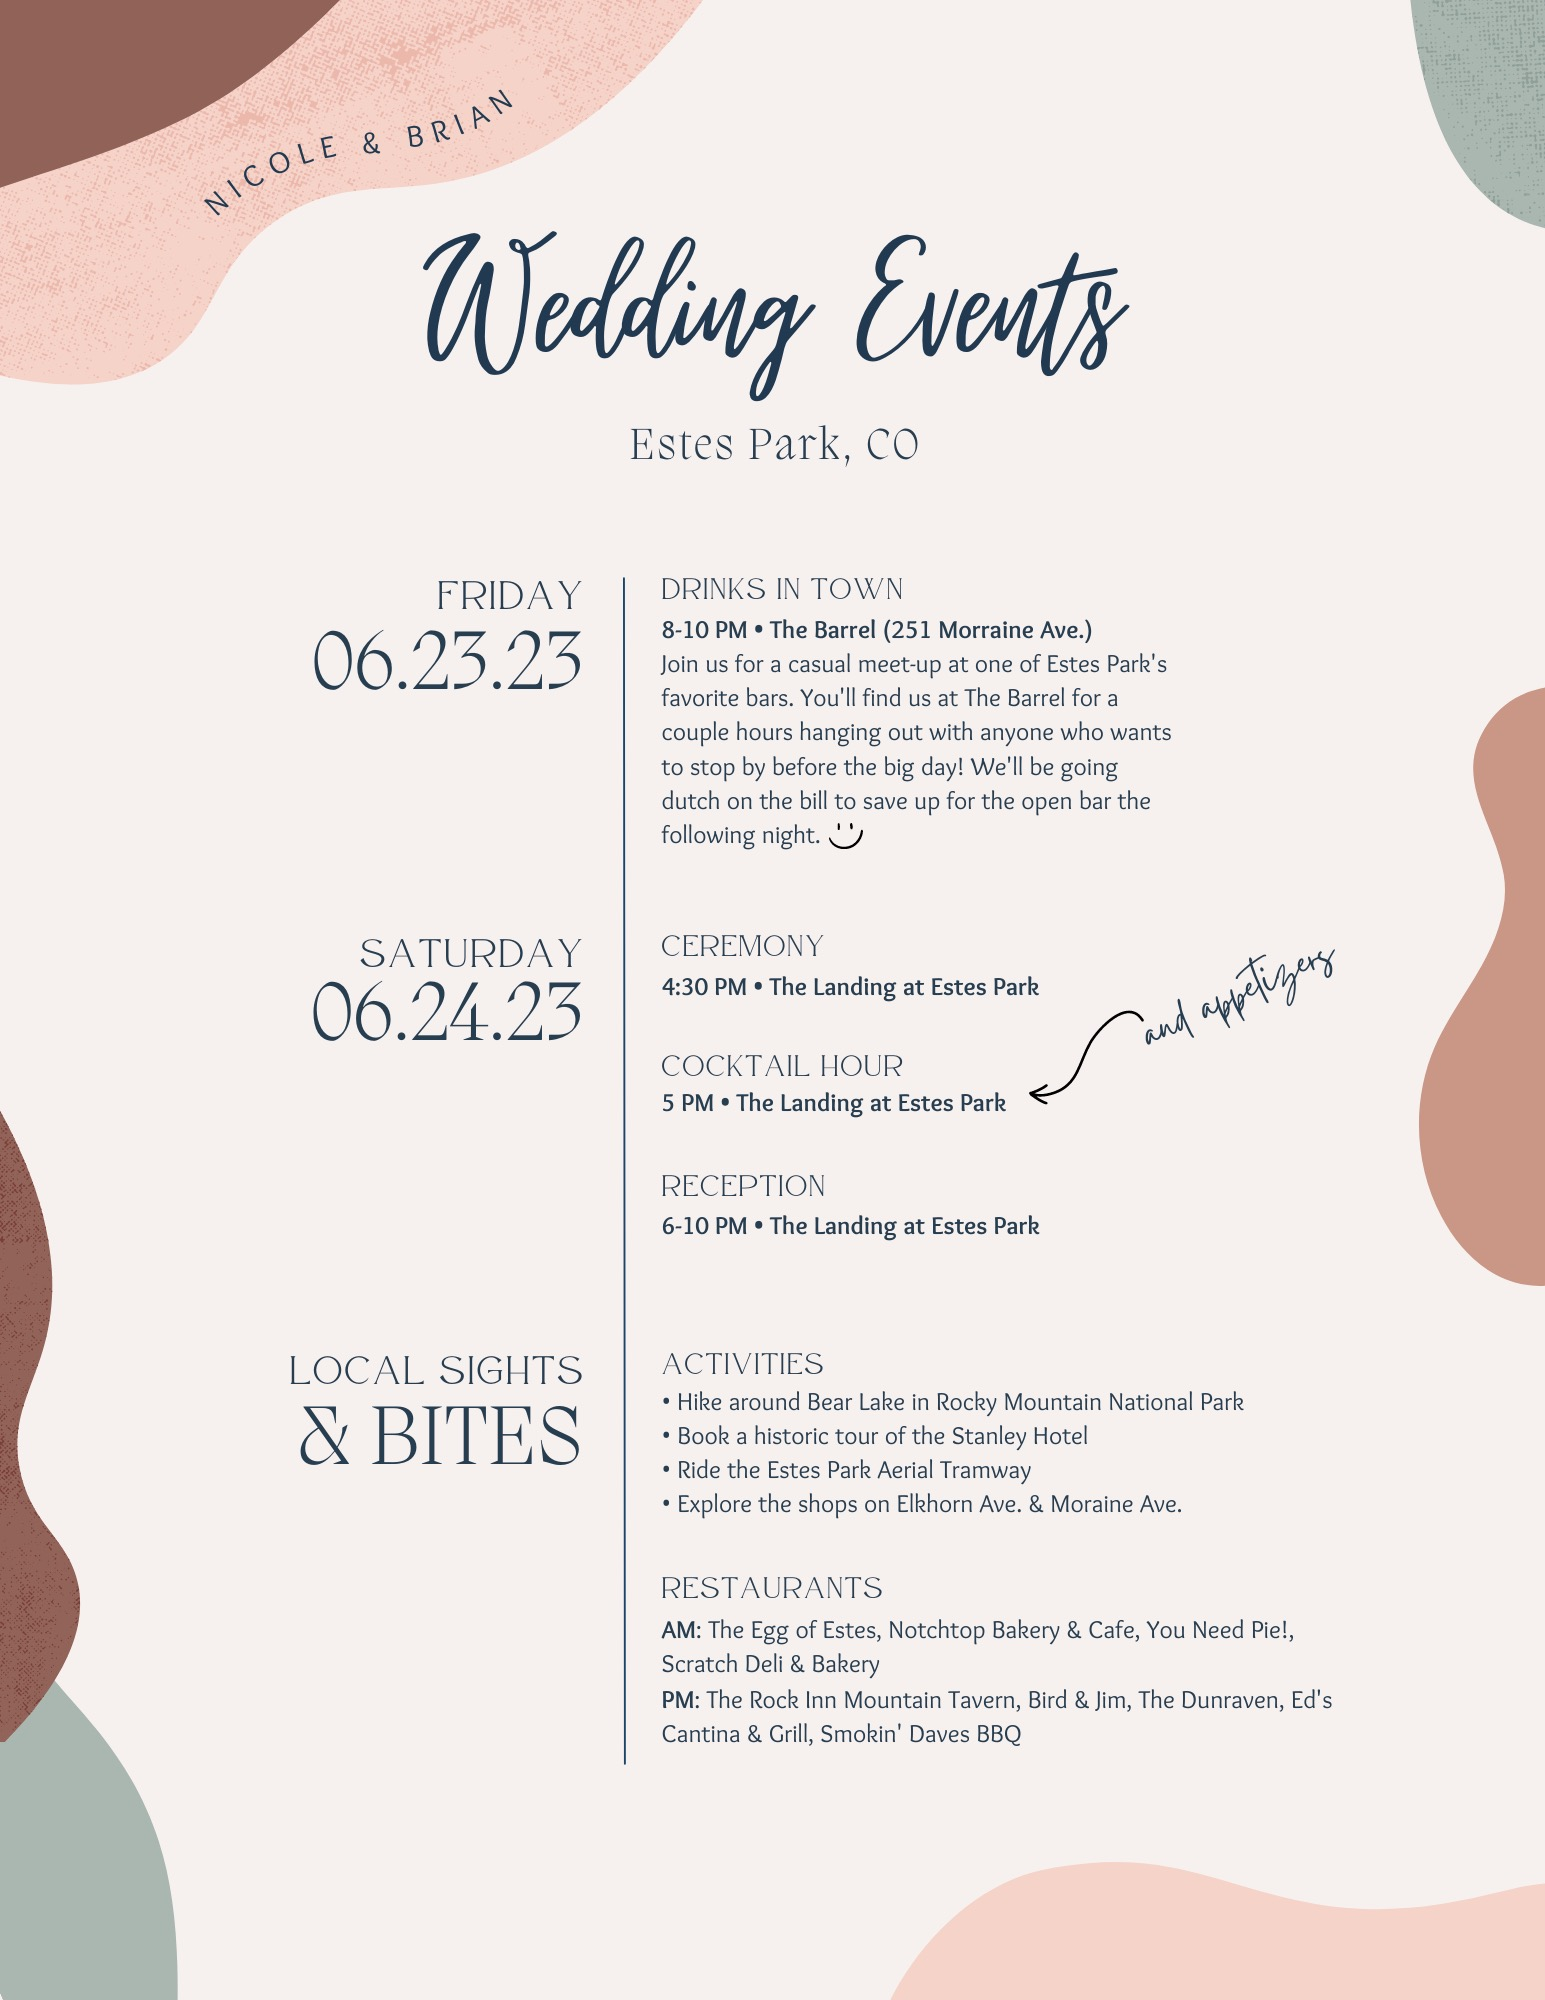
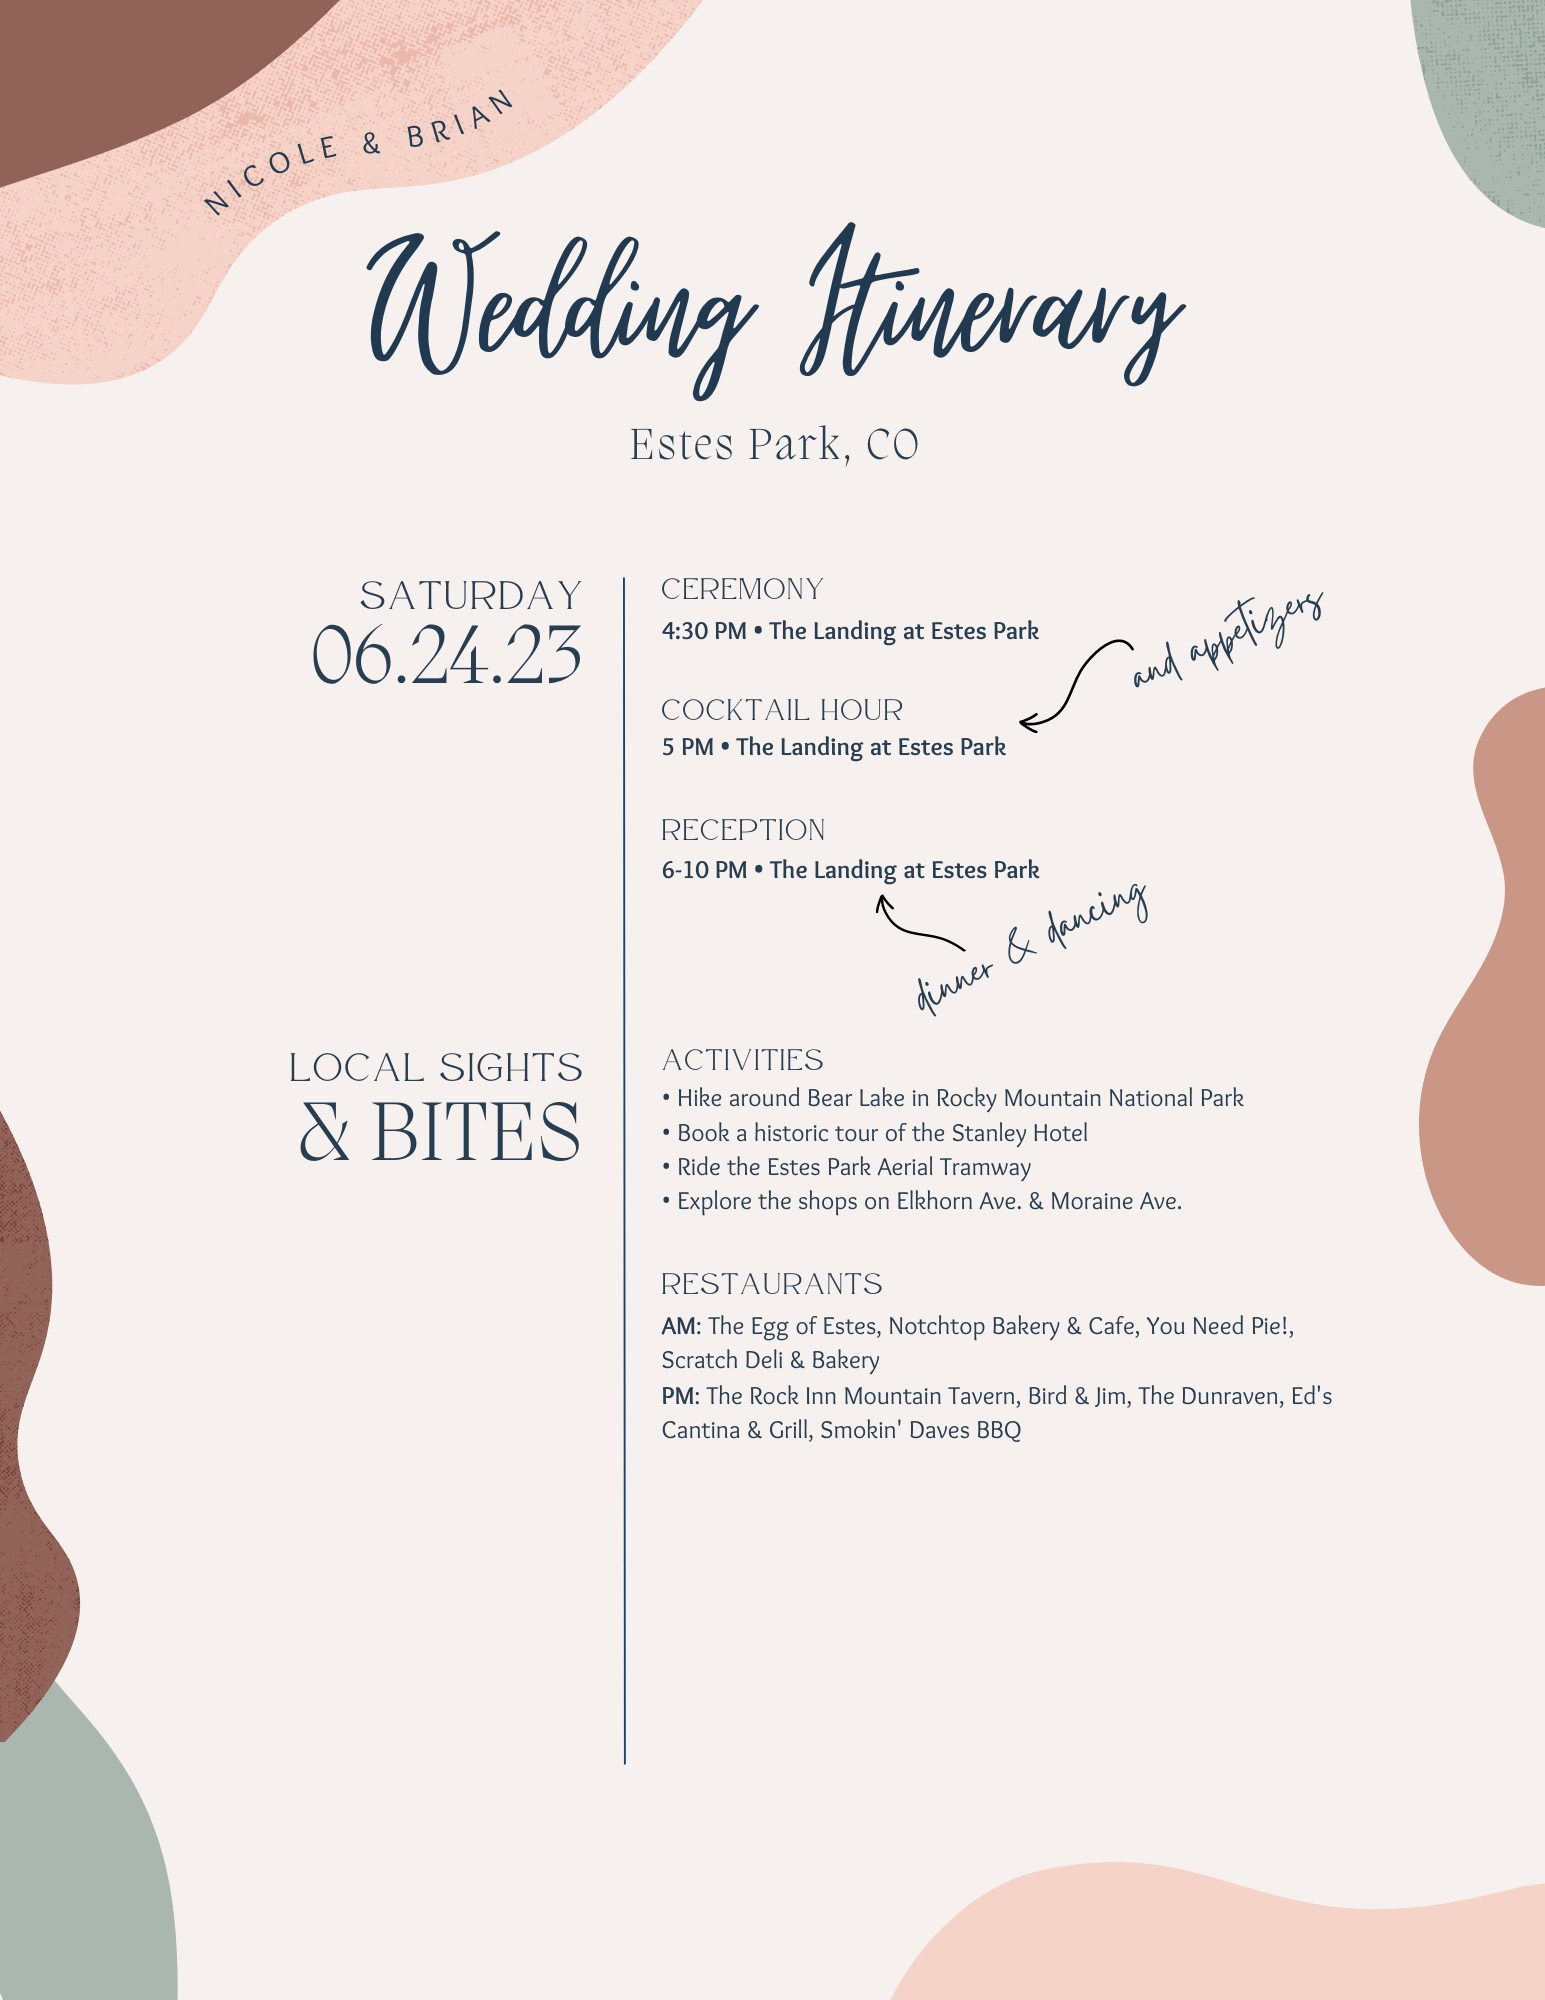
update itinerary

diff --git a/info.html b/info.html
@@ -126,11 +126,6 @@
   <div class="leading-8 md:leading-9 lg:leading-10 text-xl mt-4 md:mt-6 xl:mt-8 w-11/12 md:w-3/4 lg:w-1/2 indent-4">Our venue has an attached parking lot with about 30 parking spots. If this lot is full, there is a private parking lot directly across the street that offers spots for only $10.</div>
 </div>
 
-<div class="flex flex-col text-3xl mt-8 items-center">
-  <div class="text-2xl lg:text-3xl mt-8 mx-8">What other wedding events are there to attend?</div>
-  <div class="leading-8 md:leading-9 lg:leading-10 text-xl mt-4 md:mt-6 xl:mt-8 w-11/12 md:w-3/4 lg:w-1/2 indent-4">All wedding events for the weekend are detailed in the itinerary at the top of this page. For example, we will be at <span><a class = "underline" target="_blank" href="https://thebarrel.beer/">The Barrel</a></span> the night before the wedding to hang out with anyone who drops by.</div>
-</div>
-
 <div class="flex  flex-col items-center divide-y justify-end divide-knot-textcolor mt-14 mb-14 text-[#4f4443]">
   <div class="text-3xl font-ffont md:text-4xl lg:text-5xl pb-3">
     B&N
